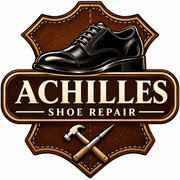
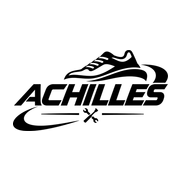
fix: new branding

diff --git a/components/AkiloMascot.tsx b/components/AkiloMascot.tsx
@@ -2,17 +2,27 @@ export default function AkiloMascot({ className = "" }: { className?: string }) 
     const ink = "#1b1340";
     return (
         <svg viewBox="0 0 170 210" className={className} aria-hidden="true">
-            <ellipse cx="80" cy="150" rx="40" ry="48" fill="#c99a6b" stroke={ink} strokeWidth="4" />
-            <ellipse cx="80" cy="160" rx="22" ry="30" fill="#e8c9a3" />
+            <g className="akilo-part akilo-tail" style={{ transformOrigin: "44px 140px" }}>
+                <path d="M44 140 C28 150 26 172 36 184" fill="none" stroke={ink} strokeWidth="9" strokeLinecap="round" />
+                <path d="M44 140 C28 150 26 172 36 184" fill="none" stroke="#c99a6b" strokeWidth="4" strokeLinecap="round" />
+            </g>
+            <g className="akilo-part akilo-torso" style={{ transformOrigin: "80px 198px" }}>
+                <ellipse cx="80" cy="150" rx="40" ry="48" fill="#c99a6b" stroke={ink} strokeWidth="4" />
+                <ellipse cx="80" cy="160" rx="22" ry="30" fill="#e8c9a3" />
+            </g>
             <ellipse cx="58" cy="196" rx="14" ry="8" fill="#c99a6b" stroke={ink} strokeWidth="4" />
             <ellipse cx="102" cy="196" rx="14" ry="8" fill="#c99a6b" stroke={ink} strokeWidth="4" />
-            <path d="M44 140 C28 150 26 172 36 184" fill="none" stroke={ink} strokeWidth="9" strokeLinecap="round" />
-            <path d="M44 140 C28 150 26 172 36 184" fill="none" stroke="#c99a6b" strokeWidth="4" strokeLinecap="round" />
 
-            <ellipse cx="42" cy="42" rx="16" ry="22" fill="#c99a6b" stroke={ink} strokeWidth="4" transform="rotate(-18 42 42)" />
-            <ellipse cx="42" cy="44" rx="8" ry="13" fill="#f4a9b8" transform="rotate(-18 42 42)" />
-            <ellipse cx="118" cy="42" rx="16" ry="22" fill="#c99a6b" stroke={ink} strokeWidth="4" transform="rotate(18 118 42)" />
-            <ellipse cx="118" cy="44" rx="8" ry="13" fill="#f4a9b8" transform="rotate(18 118 42)" />
+            <g className="akilo-part akilo-head" style={{ transformOrigin: "80px 122px" }}>
+
+            <g className="akilo-part akilo-ear-l" style={{ transformOrigin: "50px 56px" }}>
+                <ellipse cx="42" cy="42" rx="16" ry="22" fill="#c99a6b" stroke={ink} strokeWidth="4" transform="rotate(-18 42 42)" />
+                <ellipse cx="42" cy="44" rx="8" ry="13" fill="#f4a9b8" transform="rotate(-18 42 42)" />
+            </g>
+            <g className="akilo-part akilo-ear-r" style={{ transformOrigin: "110px 56px" }}>
+                <ellipse cx="118" cy="42" rx="16" ry="22" fill="#c99a6b" stroke={ink} strokeWidth="4" transform="rotate(18 118 42)" />
+                <ellipse cx="118" cy="44" rx="8" ry="13" fill="#f4a9b8" transform="rotate(18 118 42)" />
+            </g>
             <circle cx="80" cy="80" r="48" fill="#c99a6b" stroke={ink} strokeWidth="4" />
             <circle cx="54" cy="78" r="24" fill="#ffffff" stroke={ink} strokeWidth="4" />
             <circle cx="106" cy="78" r="24" fill="#ffffff" stroke={ink} strokeWidth="4" />
@@ -24,8 +34,9 @@ export default function AkiloMascot({ className = "" }: { className?: string }) 
             </g>
             <path d="M74 102 L86 102 L80 110 Z" fill="#5b3a29" />
             <path d="M68 116 Q80 128 92 116" fill="none" stroke={ink} strokeWidth="4" strokeLinecap="round" />
+            </g>
 
-            <g className="akilo-arm" style={{ transformOrigin: "116px 138px" }}>
+            <g className="akilo-part akilo-arm" style={{ transformOrigin: "116px 138px" }}>
                 <path d="M116 138 C140 134 150 112 146 92" fill="none" stroke={ink} strokeWidth="9" strokeLinecap="round" />
                 <path d="M116 138 C140 134 150 112 146 92" fill="none" stroke="#c99a6b" strokeWidth="4" strokeLinecap="round" />
                 <circle cx="146" cy="88" r="9" fill="#c99a6b" stroke={ink} strokeWidth="4" />
@@ -37,7 +48,7 @@ export default function AkiloMascot({ className = "" }: { className?: string }) 
 export function AkiloBranch({ className = "" }: { className?: string }) {
     const ink = "#1b1340";
     return (
-        <svg viewBox="0 0 220 70" className={className} aria-hidden="true">
+        <svg viewBox="0 0 220 70" className={`akilo-branch ${className}`} aria-hidden="true">
             <path d="M222 30 C170 28 120 36 70 40 C45 42 25 44 8 52" fill="none" stroke={ink} strokeWidth="18" strokeLinecap="round" />
             <path d="M222 30 C170 28 120 36 70 40 C45 42 25 44 8 52" fill="none" stroke="#8a5a36" strokeWidth="11" strokeLinecap="round" />
             <path d="M150 33 C146 20 138 14 130 10" fill="none" stroke={ink} strokeWidth="10" strokeLinecap="round" />

diff --git a/components/CardDeck.tsx b/components/CardDeck.tsx
@@ -5,7 +5,7 @@ import { useRouter } from "next/navigation";
 import { motion } from "framer-motion";
 import { useCallback, useEffect, useRef, useState } from "react";
 
-type Item = { href: string; title: string; text: string };
+type Item = { href: string; title: string; text: string; image?: string; fit?: "cover" | "contain" };
 
 const colors = ["#19b3c4", "#8b3fc7", "#ff7a3d", "#ffc83d", "#e8374f", "#19b3c4"];
 const PULL_DISTANCE = 140;
@@ -63,6 +63,7 @@ export default function CardDeck({ items }: { items: Item[] }) {
     }
 
     return (
+        <div className="grid md:grid-cols-[minmax(0,32rem)_minmax(0,1fr)] gap-10 lg:gap-16 items-center">
         <div className="space-y-5">
             <div
                 ref={ref}
@@ -70,7 +71,7 @@ export default function CardDeck({ items }: { items: Item[] }) {
                 onKeyDown={onKey}
                 role="group"
                 aria-label="Shortcuts deck. Scroll or use arrow keys to flip, drag a card out to open it."
-                className="relative mx-auto w-full max-w-xl h-[21rem] outline-none focus-visible:ring-2 ring-purple rounded-3xl"
+                className="relative w-full h-[18.5rem] outline-none focus-visible:ring-2 ring-purple rounded-3xl"
             >
                 {items.map((item, i) => {
                     const d = i - index;
@@ -100,7 +101,7 @@ export default function CardDeck({ items }: { items: Item[] }) {
                             }}
                             transition={{ type: "spring", stiffness: 220, damping: 24 }}
                             style={{ zIndex: count - Math.abs(d), borderColor: color, pointerEvents: passed || d > 4 ? "none" : "auto" }}
-                            className={`absolute inset-x-0 top-0 h-52 card border-t-4 p-7 select-none ${top ? "cursor-grab" : ""}`}
+                            className={`absolute inset-x-0 top-0 h-48 card border-t-4 p-7 select-none ${top ? "cursor-grab" : ""}`}
                         >
                             <div className="flex items-start justify-between gap-4">
                                 <h3 className="uppercase font-black text-xl">{item.title}</h3>
@@ -130,7 +131,7 @@ export default function CardDeck({ items }: { items: Item[] }) {
                 })}
             </div>
 
-            <div className="flex items-center justify-center gap-4">
+            <div className="flex items-center gap-4">
                 <button
                     onClick={() => go(index - 1)}
                     disabled={index === 0}
@@ -159,7 +160,27 @@ export default function CardDeck({ items }: { items: Item[] }) {
                     ↓
                 </button>
             </div>
-            <p className="text-center text-xs text-ink/50">Scroll over the deck to flip through. Drag a card out to open it.</p>
+            <p className="text-xs text-ink/50">Scroll over the deck to flip through. Drag a card out to open it.</p>
+        </div>
+
+        <Link
+            href={items[index]?.href ?? "/"}
+            aria-label={`Open ${items[index]?.title ?? ""}`}
+            className="relative block w-full max-w-md md:max-w-none mx-auto aspect-[4/3] overflow-hidden bg-[#f3f1ee]"
+        >
+            {items.map((item, i) =>
+                item.image ? (
+                    <img
+                        key={item.href}
+                        src={item.image}
+                        alt={i === index ? item.title : ""}
+                        aria-hidden={i !== index}
+                        className={`absolute inset-0 w-full h-full transition-opacity duration-500 ${item.fit === "contain" ? "object-contain p-6" : "object-cover"} ${i === index ? "opacity-100" : "opacity-0"}`}
+                    />
+                ) : null
+            )}
+            <span className="absolute bottom-0 left-0 bg-ink text-white text-xs font-bold uppercase tracking-wider px-4 py-2">{items[index]?.title}</span>
+        </Link>
         </div>
     );
 }

diff --git a/app/globals.css b/app/globals.css
@@ -288,7 +288,7 @@ body {
   0%, 92%, 100% { transform: scaleY(1); }
   96% { transform: scaleY(0.1); }
 }
-.akilo-body { transform: translateX(46%); animation: akilo-peek 7s ease-in-out infinite; transition: transform 0.5s ease-out; }
+.akilo-body { transform: translateX(46%); animation: akilo-peek 7s ease-in-out infinite; transition: transform 0.6s cubic-bezier(0.34, 1.56, 0.64, 1); }
 .group:hover .akilo-body, .group:focus-within .akilo-body, .akilo-out { transform: translateX(0); animation: none; }
 .akilo-arm { transform-box: view-box; }
 .group:hover .akilo-arm, .group:focus-within .akilo-arm { animation: akilo-wave 0.7s ease-in-out infinite; }
@@ -356,3 +356,46 @@ body {
 .admin-ui .btn-ghost:hover:not(:disabled) { background: #f3f4f6; }
 .admin-ui .btn-accent { background: #111827; color: #fff; }
 .admin-ui .btn-accent:hover:not(:disabled) { background: #374151; }
+
+/* Akilo: soft idle motion so he never looks stiff, and the branch moves with him. */
+.akilo-part { transform-box: view-box; }
+@keyframes akilo-breathe { 0%, 100% { transform: scaleY(1) scaleX(1); } 50% { transform: scaleY(1.03) scaleX(0.99); } }
+@keyframes akilo-head-sway {
+  0%, 100% { transform: rotate(0deg) translateY(0); }
+  22% { transform: rotate(-3.5deg) translateY(-1px); }
+  50% { transform: rotate(2.5deg) translateY(1px); }
+  76% { transform: rotate(-1.5deg) translateY(0); }
+}
+@keyframes akilo-tail-sway { 0%, 100% { transform: rotate(-5deg); } 50% { transform: rotate(9deg); } }
+@keyframes akilo-ear-twitch { 0%, 84%, 100% { transform: rotate(0deg); } 88% { transform: rotate(-9deg); } 92% { transform: rotate(3deg); } 96% { transform: rotate(0deg); } }
+@keyframes akilo-arm-idle { 0%, 100% { transform: rotate(-3deg); } 50% { transform: rotate(4deg); } }
+.akilo-torso { animation: akilo-breathe 3.4s ease-in-out infinite; }
+.akilo-head { animation: akilo-head-sway 6s ease-in-out infinite; }
+.akilo-tail { animation: akilo-tail-sway 3.2s ease-in-out infinite; }
+.akilo-ear-l { animation: akilo-ear-twitch 7s ease-in-out infinite; }
+.akilo-ear-r { animation: akilo-ear-twitch 7s ease-in-out 0.25s infinite; }
+.akilo-arm { animation: akilo-arm-idle 4.2s ease-in-out infinite; }
+.group:hover .akilo-head, .group:focus-within .akilo-head { animation-duration: 2.4s; }
+
+/* Branch: dips and swings whenever Akilo moves (same 7s clock as his peek-a-boo), and bounces when he hops out. */
+@keyframes akilo-branch-peek {
+  0%, 80%, 100% { transform: rotate(0deg) translateY(0); }
+  84% { transform: rotate(0.6deg) translateY(1px); }
+  88%, 94% { transform: rotate(-1.4deg) translateY(2.5px); }
+  97% { transform: rotate(0.5deg) translateY(-0.5px); }
+}
+@keyframes akilo-branch-bounce {
+  0% { transform: rotate(0deg) translateY(0); }
+  18% { transform: rotate(-2.4deg) translateY(4px); }
+  42% { transform: rotate(1.4deg) translateY(-1.5px); }
+  66% { transform: rotate(-0.7deg) translateY(1px); }
+  100% { transform: rotate(0deg) translateY(0); }
+}
+@keyframes akilo-branch-wave { 0%, 100% { transform: rotate(0deg); } 50% { transform: rotate(-0.8deg) translateY(1px); } }
+.akilo-branch { transform-origin: 100% 40%; animation: akilo-branch-peek 7s ease-in-out infinite; }
+.group:hover .akilo-branch, .group:focus-within .akilo-branch { animation: akilo-branch-bounce 0.9s ease-out 1, akilo-branch-wave 0.7s ease-in-out 0.9s infinite; }
+.akilo-branch-out { animation: akilo-branch-bounce 0.9s ease-out 1 !important; }
+
+@media (prefers-reduced-motion: reduce) {
+  .akilo-torso, .akilo-head, .akilo-tail, .akilo-ear-l, .akilo-ear-r, .akilo-arm, .akilo-branch, .akilo-branch-out { animation: none !important; }
+}

diff --git a/app/page.tsx b/app/page.tsx
@@ -9,13 +9,13 @@ import { contact, trustPoints, shopCategories } from "@/lib/business";
 
 export const dynamic = "force-dynamic";
 
-const features = [
-    { href: "/shop", title: "Shoes", text: "Browse and filter the collection." },
-    { href: "/repair", title: "Repairs", text: "Soles, heels, stitching and more." },
-    { href: "/book", title: "Book a drop-off", text: "Choose a time that suits you." },
-    { href: "/track", title: "Track", text: "Follow a repair, order or ticket with its reference number." },
-    { href: "/wishlist", title: "Wishlist", text: "Save the pairs you want next." },
-    { href: "/reviews", title: "Reviews", text: "Read what customers say about their repairs." },
+const features: { href: string; title: string; text: string; image: string; fit: "cover" | "contain" }[] = [
+    { href: "/shop", title: "Shoes", text: "Browse and filter the collection.", image: "/hero/shoe.png", fit: "contain" },
+    { href: "/repair", title: "Repairs", text: "Soles, heels, stitching and more.", image: "/before-after/sneaker-after.jpg", fit: "cover" },
+    { href: "/book", title: "Book a drop-off", text: "Choose a time that suits you.", image: "/before-after/loafer-before.jpg", fit: "cover" },
+    { href: "/track", title: "Track", text: "Follow a repair, order or ticket with its reference number.", image: "/before-after/derby-after.jpg", fit: "cover" },
+    { href: "/wishlist", title: "Wishlist", text: "Save the pairs you want next.", image: "/products/blush-high-top-1.png", fit: "contain" },
+    { href: "/reviews", title: "Reviews", text: "Read what customers say about their repairs.", image: "/before-after/sandal-after.jpg", fit: "cover" },
 ];
 
 export default async function HomePage() {

diff --git a/app/profile/page.tsx b/app/profile/page.tsx
@@ -2,6 +2,7 @@ import { requireUser } from "@/lib/requireUser";
 import ProfileForm from "@/components/ProfileForm";
 import AvatarUploader from "@/components/AvatarUploader";
 import { AddressSection, BankSection, PhoneSection } from "@/components/DeliveryProfile";
+import PasswordForm from "@/components/PasswordForm";
 import TransactionHistory from "@/components/TransactionHistory";
 import { base } from "@/lib/airtable";
 import { listAddresses } from "@/lib/addresses";
@@ -42,6 +43,10 @@ export default async function ProfilePage() {
 
                     <section>
                         <BankSection bank={fields.BankName ?? ""} holder={fields.BankHolder ?? ""} last4={fields.BankLast4 ?? ""} />
+                    </section>
+
+                    <section>
+                        <PasswordForm />
                     </section>
                 </div>
 

diff --git a/app/orders/[reference]/page.tsx b/app/orders/[reference]/page.tsx
@@ -84,7 +84,7 @@ export default async function ReceiptPage({
 
             <article className="rounded-3xl overflow-hidden bg-white border-2 border-ink shadow-[0_14px_40px_rgba(27,19,64,0.15)]">
                 <header className="bg-ink text-white px-7 py-6 flex items-center justify-between gap-4">
-                    <img src="/logo.png" alt="ACHILLES" className="h-14 w-auto" />
+                    <img src="/logo-white.png" alt="ACHILLES" className="h-14 w-auto" />
                     <div className="text-right">
                         <p className="font-display font-black text-3xl tracking-wide">{receipt.title}</p>
                         <p className="font-mono font-bold text-yellow text-sm">{receipt.reference}</p>

diff --git a/components/Footer.tsx b/components/Footer.tsx
@@ -43,7 +43,7 @@ export default function Footer() {
         <footer className="bg-ink text-white mt-24">
             <div className="max-w-7xl mx-auto px-4 md:px-6 py-16 grid gap-12 md:grid-cols-4">
                 <div className="space-y-4">
-                    <img src="/logo.png" alt="ACHILLES" className="h-24 w-auto" />
+                    <img src="/logo-white.png" alt="ACHILLES" className="h-20 w-auto" />
                     <p className="text-sm text-white/70 max-w-xs">Repair. Restore. Retail.</p>
                     <p className="text-xs text-white/60">{contact.address}</p>
                     <p className="text-xs text-white/60">{contact.hours}</p>

diff --git a/components/Navbar.tsx b/components/Navbar.tsx
@@ -43,7 +43,7 @@ export default function Navbar() {
         <header className="sticky top-0 z-40 bg-white/90 backdrop-blur border-b border-ink/10">
             <nav className="max-w-7xl mx-auto px-4 md:px-6 h-16 flex items-center justify-between gap-4">
                 <Link href={dashboard ? dashboard.href : "/"} className="shrink-0" aria-label="ACHILLES home">
-                    <img src="/logo.png" alt="ACHILLES" className="h-12 w-auto" />
+                    <img src="/logo.png" alt="ACHILLES" className="h-14 w-auto" />
                 </Link>
 
                 <ul className="hidden xl:flex items-center gap-5">

diff --git a/components/PasswordForm.tsx b/components/PasswordForm.tsx
@@ -1,5 +1,6 @@
 "use client";
 
+import Link from "next/link";
 import { useActionState } from "react";
 import { changePassword, AccountState } from "@/app/account/actions";
 
@@ -18,6 +19,7 @@ export default function PasswordForm() {
             <button disabled={isPending} className="btn btn-ink">
                 {isPending ? "Saving..." : "Update password"}
             </button>
+            <p className="text-xs text-ink/60">Forgot your current password? <Link href="/forgot" className="underline font-bold">Reset it by email</Link>.</p>
         </form>
     );
 }

diff --git a/components/ChatWidget.tsx b/components/ChatWidget.tsx
@@ -87,7 +87,7 @@ export default function ChatWidget() {
                 >
                     <AkiloMascot className="w-full h-auto drop-shadow-lg" />
                 </button>
-                <AkiloBranch className="pointer-events-none absolute bottom-0 right-0 w-56 h-auto" />
+                <AkiloBranch className={`pointer-events-none absolute bottom-0 right-0 w-56 h-auto ${open ? "akilo-branch-out" : ""}`} />
             </div>
 
             {open && (

diff --git a/app/api/receipt/[reference]/route.ts b/app/api/receipt/[reference]/route.ts
@@ -17,7 +17,7 @@ export async function GET(req: Request, ctx: { params: Promise<{ reference: stri
 
     let logo: Uint8Array | null = null;
     try {
-        const res = await fetch(new URL("/logo.png", req.url));
+        const res = await fetch(new URL("/logo-white.png", req.url));
         if (res.ok) logo = new Uint8Array(await res.arrayBuffer());
     } catch {
         logo = null;
